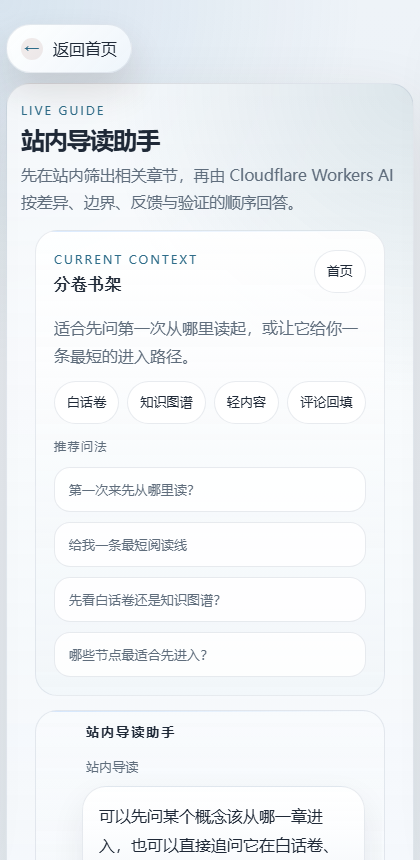
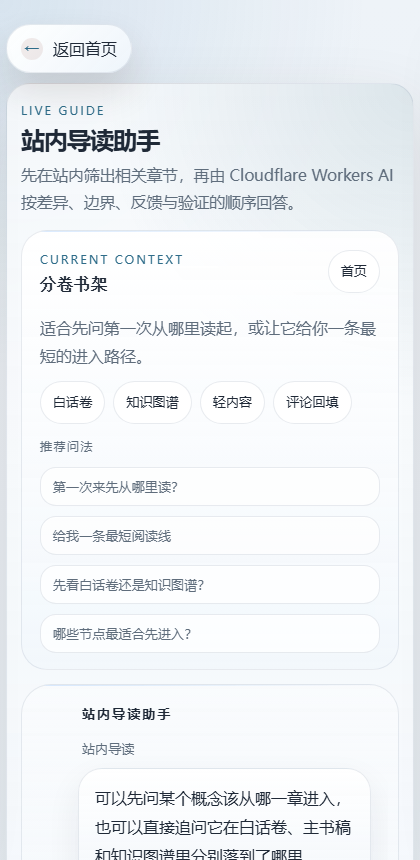
更新样式，使用变量替代硬编码颜色，增强可维护性

diff --git a/assets/styles.css b/assets/styles.css
@@ -4646,19 +4646,19 @@ body.is-home-hub #open-catalog-button {
 }
 
 body.is-home-hub .mobile-reader-bar {
-  background: rgba(255, 255, 255, 0.86);
-  border: 1px solid rgba(148, 163, 184, 0.18);
+  background: var(--guide-card-bg);
+  border: 1px solid var(--paper-line);
   box-shadow: 0 24px 60px rgba(15, 23, 42, 0.16);
 }
 
 body.is-home-hub .mobile-tool {
-  color: #94a3b8;
+  color: var(--text-faint);
   border-color: transparent;
 }
 
 body.is-home-hub .mobile-tool.is-active {
-  background: rgba(37, 99, 235, 0.12);
-  color: #2563eb;
+  background: var(--accent-soft);
+  color: var(--accent);
   border-color: transparent;
   box-shadow: none;
 }

diff --git a/docs/assets/styles.css b/docs/assets/styles.css
@@ -4646,19 +4646,19 @@ body.is-home-hub #open-catalog-button {
 }
 
 body.is-home-hub .mobile-reader-bar {
-  background: rgba(255, 255, 255, 0.86);
-  border: 1px solid rgba(148, 163, 184, 0.18);
+  background: var(--guide-card-bg);
+  border: 1px solid var(--paper-line);
   box-shadow: 0 24px 60px rgba(15, 23, 42, 0.16);
 }
 
 body.is-home-hub .mobile-tool {
-  color: #94a3b8;
+  color: var(--text-faint);
   border-color: transparent;
 }
 
 body.is-home-hub .mobile-tool.is-active {
-  background: rgba(37, 99, 235, 0.12);
-  color: #2563eb;
+  background: var(--accent-soft);
+  color: var(--accent);
   border-color: transparent;
   box-shadow: none;
 }
